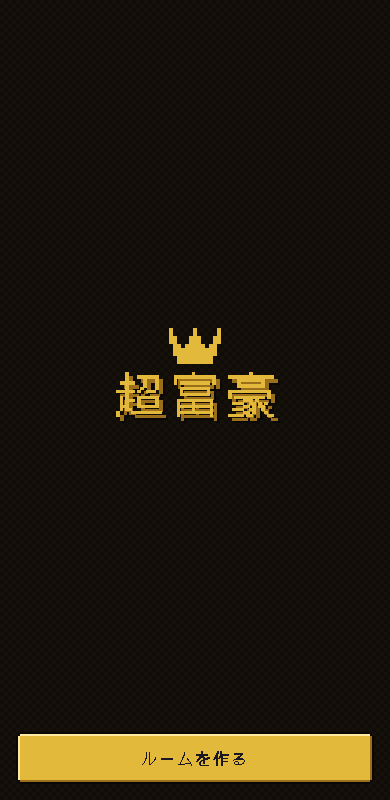
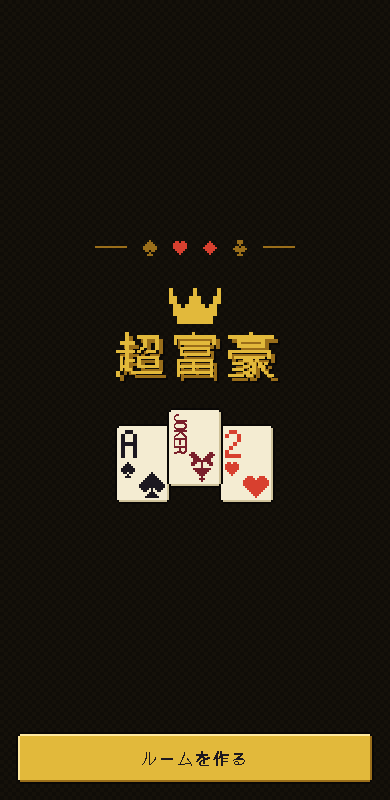
client: タイトル画面に装飾を足す（ロゴの上に4つのマークと細い線、下にトランプ3枚）。Codex が作った2案からユーザーが選んだ組み合わせ

diff --git a/packages/client/src/screens/Simple.tsx b/packages/client/src/screens/Simple.tsx
@@ -3,13 +3,14 @@
 import { useState } from 'react';
 import type { CreateRoomResponse, StateMessage } from '@chofugo/server/protocol';
 import { Logo } from '../components/Logo.tsx';
+import { TitleDeco } from '../components/TitleDeco.tsx';
 import { NAME_MAX, nameError, normalizeName } from '../lib/names.ts';
 import { getSavedName } from '../lib/storage.ts';
 import s from './Simple.module.css';
 
-export function Home({ go }: { go: (path: string) => void }) {
+export function Home({ go, initialError = null }: { go: (path: string) => void; initialError?: string | null }) {
   const [busy, setBusy] = useState(false);
-  const [err, setErr] = useState<string | null>(null);
+  const [err, setErr] = useState<string | null>(initialError);
   const create = async () => {
     setBusy(true);
     setErr(null);
@@ -26,7 +27,7 @@ export function Home({ go }: { go: (path: string) => void }) {
   return (
     <div className={s.page}>
       <div className={s.center}>
-        <Logo />
+        <TitleDeco><Logo /></TitleDeco>
       </div>
       {err !== null && <p className={`redt ${s.line}`}>{err}</p>}
       <button type="button" className="f btn" disabled={busy} onClick={create}>

diff --git a/packages/client/src/components/TitleDeco.tsx b/packages/client/src/components/TitleDeco.tsx
@@ -1,0 +1,26 @@
+// 上に4つのマークと細い線、ロゴの下に段違いのトランプ3枚を置く。
+// ユーザーが 2026-11-18 に選んだ組み合わせ。
+import type { ReactNode } from 'react';
+import { Pixel } from '../pixel/Pixel.tsx';
+import { SUIT_GLYPHS_SMALL } from '../pixel/patterns.ts';
+import { Card } from './Card.tsx';
+import s from './TitleDeco.module.css';
+
+export function TitleDeco({ children }: { children: ReactNode }) {
+  return (
+    <div className={s.title}>
+      <div className={s.suits} aria-hidden="true">
+        <Pixel rows={SUIT_GLYPHS_SMALL.spade} unit={2} />
+        <Pixel rows={SUIT_GLYPHS_SMALL.heart} unit={2} color="var(--red)" />
+        <Pixel rows={SUIT_GLYPHS_SMALL.diamond} unit={2} color="var(--red)" />
+        <Pixel rows={SUIT_GLYPHS_SMALL.club} unit={2} />
+      </div>
+      {children}
+      <div className={s.cards} aria-hidden="true">
+        <Card id="spade-14" className={s.leftCard} />
+        <Card id="heart-15" className={s.rightCard} />
+        <Card id="joker-0" className={s.jokerCard} />
+      </div>
+    </div>
+  );
+}

diff --git a/packages/client/src/components/TitleDeco.module.css b/packages/client/src/components/TitleDeco.module.css
@@ -1,0 +1,41 @@
+.title {
+  flex: none;
+  display: flex;
+  flex-direction: column;
+  align-items: center;
+  gap: 32px;
+}
+
+/* 回転や縮小を使わず、2px の格子上で強い札を段違いに広げる。 */
+.cards {
+  position: relative;
+  width: 160px;
+  height: 96px;
+  pointer-events: none;
+}
+.cards > div { position: absolute; }
+.leftCard { left: 0; top: 16px; }
+.rightCard { right: 0; top: 16px; }
+.jokerCard { left: 52px; top: 0; }
+
+.suits {
+  position: relative;
+  width: 104px;
+  height: 16px;
+  display: flex;
+  align-items: center;
+  gap: 16px;
+  color: var(--gold-lo);
+  pointer-events: none;
+}
+.suits::before,
+.suits::after {
+  content: '';
+  position: absolute;
+  top: 6px;
+  width: 32px;
+  height: 2px;
+  background: var(--gold-lo);
+}
+.suits::before { right: calc(100% + 16px); }
+.suits::after { left: calc(100% + 16px); }

diff --git a/packages/client/src/dev/Gallery.tsx b/packages/client/src/dev/Gallery.tsx
@@ -701,6 +701,7 @@ function historyFeed(): Feed {
 
 const SCENES: Record<string, Scene> = {
   home: { title: 'ホーム', render: () => <Home go={() => {}} /> },
+  'home-error': { title: 'ホーム（作成エラー）', render: () => <Home go={() => {}} initialError="ルームを作れませんでした。もう一度試してください" /> },
   name: { title: '名前の入力', render: () => <NameEntry state={lobby(false)} onJoin={() => {}} joinError={null} /> },
   'name-full': {
     title: '名前の入力（満員）',

diff --git a/docs/client-assumptions.md b/docs/client-assumptions.md
@@ -396,3 +396,10 @@
   - ボットの通し：大富豪・カスタム24種・超富豪（ボット4席）と超富豪（ボット1席＋CPU 3席）を各5ゲーム完走、拒否0件。カスタム24種の回では、5色縛り10回・6戻し4回・Q ボンバー7回が起きた。
   - Chrome の1席（CPU 3席相手、カスタム24種）：トップ画面からルームを作り、ロビーで「定番・応用・特殊」の24種を ON にして開始。Q を出して Q ボンバーの枠が出る。選ばずに15秒たつと宣言なしで進む。数字を選ぶとボタンが金の塗りになり、宣言すると自分の手札のその数字も捨てられ、「Q ボンバー！ 8」と出る。
 - 公開先で確かめていないこと：銀河鉄道・闇市・DEATH・オーメン・大革命（種を固定できないので、ローカルの J15 で確かめた）。実際のスマホでの表示と操作。
+
+## K. タイトル画面の装飾（2026-11-18）
+
+- **場面**: ユーザーから「タイトル画面にトランプや超富豪らしいものを Codex に作ってもらって、もう少し装飾する」と依頼があった。
+- **決めたこと**: Codex が2案（トランプ3枚／マークの線と金貨・宝石）を作り、ユーザーが「組み合わせる」を選んだ。ロゴの上に4つのマーク（♠♥♦♣）と細い線、ロゴの下に ♠A・JOKER・♥2 の3枚を段違いに置く（`components/TitleDeco.tsx`）。回転はドットが崩れるので使わない。動きは付けない。色は既存の変数だけ。装飾は読み上げから隠す。
+- **変えていないもの**: `Logo`（ロビーでも使う）、「ルームを作る」のボタン、ほかの画面。
+- **確かめたこと**: 見本ページの `home`（390×800、360×640、430×900）と `home-error`（360×640。エラーの行が出てもトランプやボタンと重ならない）を画像で確認（`docs/mock/client/home*.png`）。
